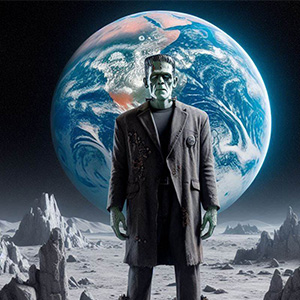
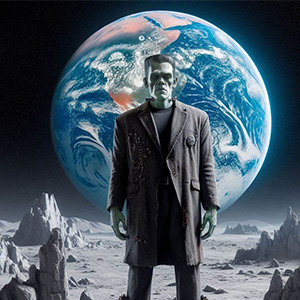
updating images, practicing with stable diffusion with forge  and reactor face swap

Changed region(s): [[0.48, 0.18, 0.6, 0.33]]

diff --git a/src/Cube.jsx b/src/Cube.jsx
@@ -5,7 +5,7 @@ import TopLogo from "./assets/topLogo300.jpg";
 
 import FrankenBride300 from "./assets/FrankenCheese300.jpg";
 import FrankMoony300 from "./assets/FrankenMoony300.jpg";
-import FranknBike300 from "./assets/FranknBike300.jpg";
+import FrankenFarmer300 from "./assets/FrankenFarmer300.jpg";
 import FrankOnMoon300 from "./assets/FrankOnMoon300.jpg";
 import "./Cube.css";
 
@@ -58,7 +58,7 @@ const Cube = () => {
                     style={{ "--i": 3 }}
                   >
                     <img
-                      src={FranknBike300}
+                      src={FrankenFarmer300}
                       alt="Side3"
                       height="300"
                       width="300"
